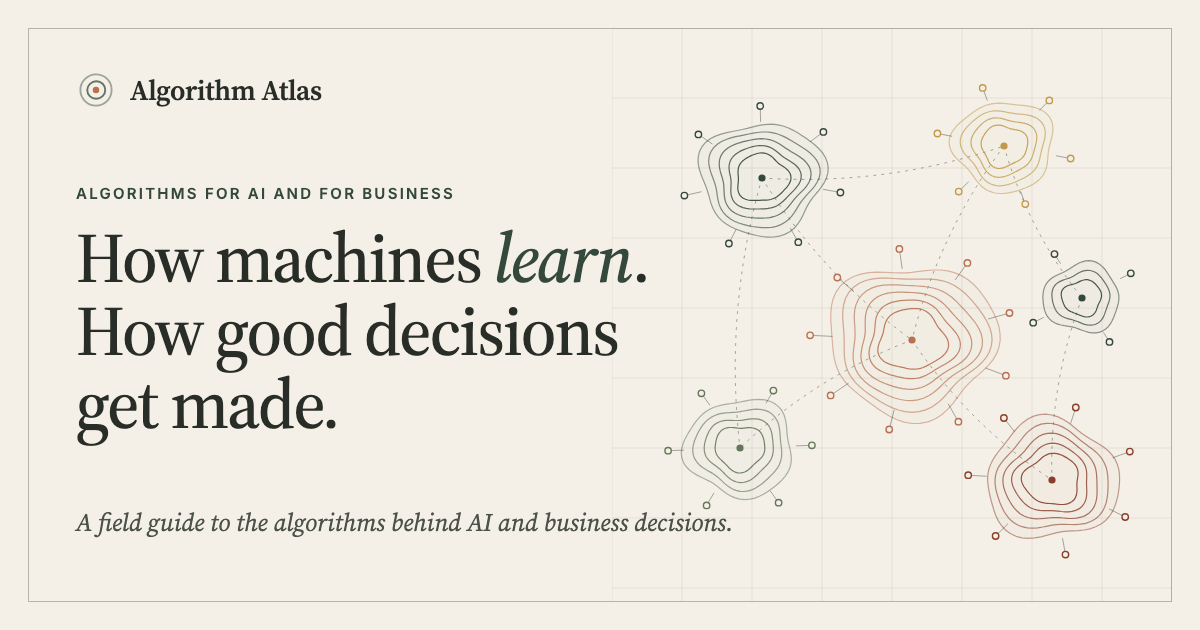
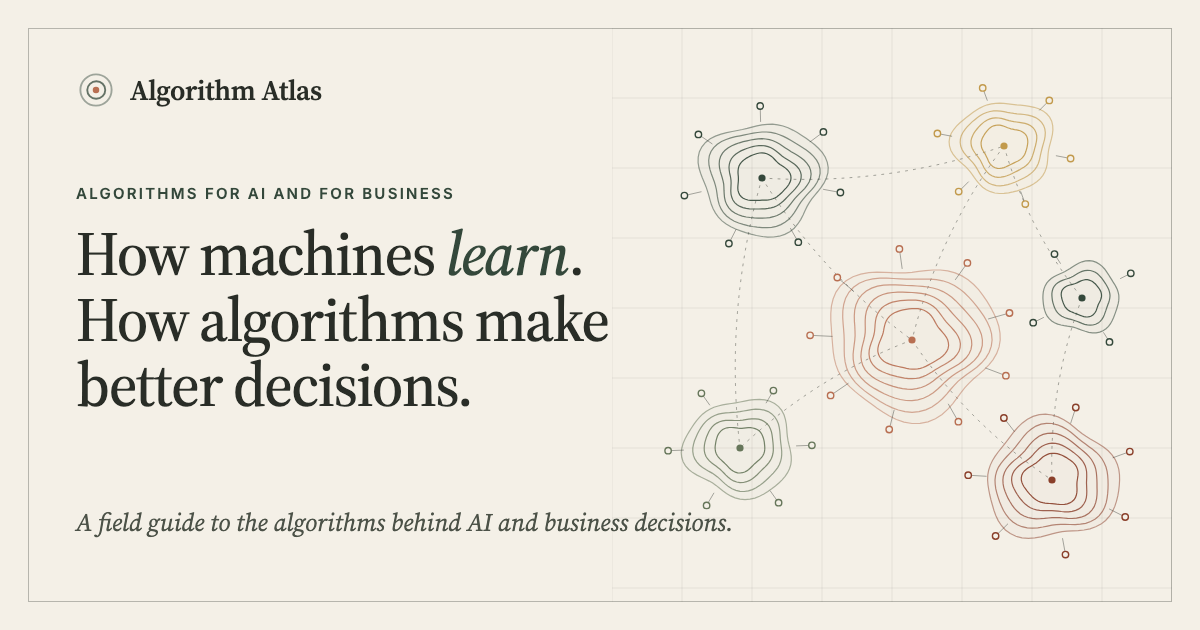
Headline: How machines learn. How algorithms make better decisions.
Home page, share text and share image.

Changed region(s): [[0.0617, 0.3619, 0.555, 0.7238]]

diff --git a/tools/og-image-source.html b/tools/og-image-source.html
@@ -13,7 +13,7 @@
   .text { position: absolute; left: 76px; top: 70px; width: 600px; }
   .brand { display: flex; align-items: center; gap: 14px; font: 600 28px 'Source Serif 4', Georgia, serif; letter-spacing: -0.01em; }
   .eyebrow { margin-top: 74px; font: 600 15px Inter, sans-serif; letter-spacing: 0.15em; text-transform: uppercase; color: #34483B; }
-  h1 { margin: 18px 0 0; font: 500 70px/1.04 'Source Serif 4', Georgia, serif; letter-spacing: -0.022em; }
+  h1 { margin: 18px 0 0; font: 500 62px/1.06 'Source Serif 4', Georgia, serif; letter-spacing: -0.022em; }
   h1 em { color: #34483B; }
   .tag { position: absolute; left: 76px; bottom: 66px; font: italic 400 25px 'Source Serif 4', Georgia, serif; color: #4C5248; }
   svg.map { position: absolute; right: 28px; top: 28px; }
@@ -28,7 +28,7 @@
     Algorithm Atlas
   </div>
   <p class="eyebrow">Algorithms for AI and for business</p>
-  <h1>How machines <em>learn</em>. How good decisions get made.</h1>
+  <h1>How machines <em>learn</em>.<br>How algorithms make better decisions.</h1>
 </div>
 <p class="tag">A field guide to the algorithms behind AI and business decisions.</p>
 <script>

diff --git a/index.html b/index.html
@@ -15,7 +15,7 @@
 <meta property="og:image" content="https://algorithm-atlas-production.up.railway.app/assets/og-image.png">
 <meta property="og:image:width" content="1200">
 <meta property="og:image:height" content="630">
-<meta property="og:image:alt" content="Algorithm Atlas. How machines learn. How good decisions get made. A field guide to the algorithms behind AI and business decisions.">
+<meta property="og:image:alt" content="Algorithm Atlas. How machines learn. How algorithms make better decisions. A field guide to the algorithms behind AI and business decisions.">
 <meta name="twitter:card" content="summary_large_image">
 <meta name="twitter:title" content="Algorithm Atlas">
 <meta name="twitter:description" content="The algorithms behind AI and business decisions. Start simple, run real code, go as deep as you like.">

diff --git a/js/pages/home.js b/js/pages/home.js
@@ -41,7 +41,7 @@ export default async function render() {
     h('div.wrap.hero-inner',
       h('div.hero-text',
         h('p.eyebrow', 'Algorithms for AI and for business'),
-        h('h1', 'How machines ', h('em', 'learn'), '. How good decisions get made.'),
+        h('h1', 'How machines ', h('em', 'learn'), '. How algorithms make better decisions.'),
         h('p.lede', 'Algorithm Atlas explains the methods behind artificial intelligence and behind everyday business decisions: forecasts, budgets, schedules and routes. Every lesson starts in plain words, runs the real method in front of you, and goes as deep as you like.'),
         h('div.hero-actions',
           first ? h('a.btn.btn-accent.btn-lg', { href: first.href }, first.label) : null,
